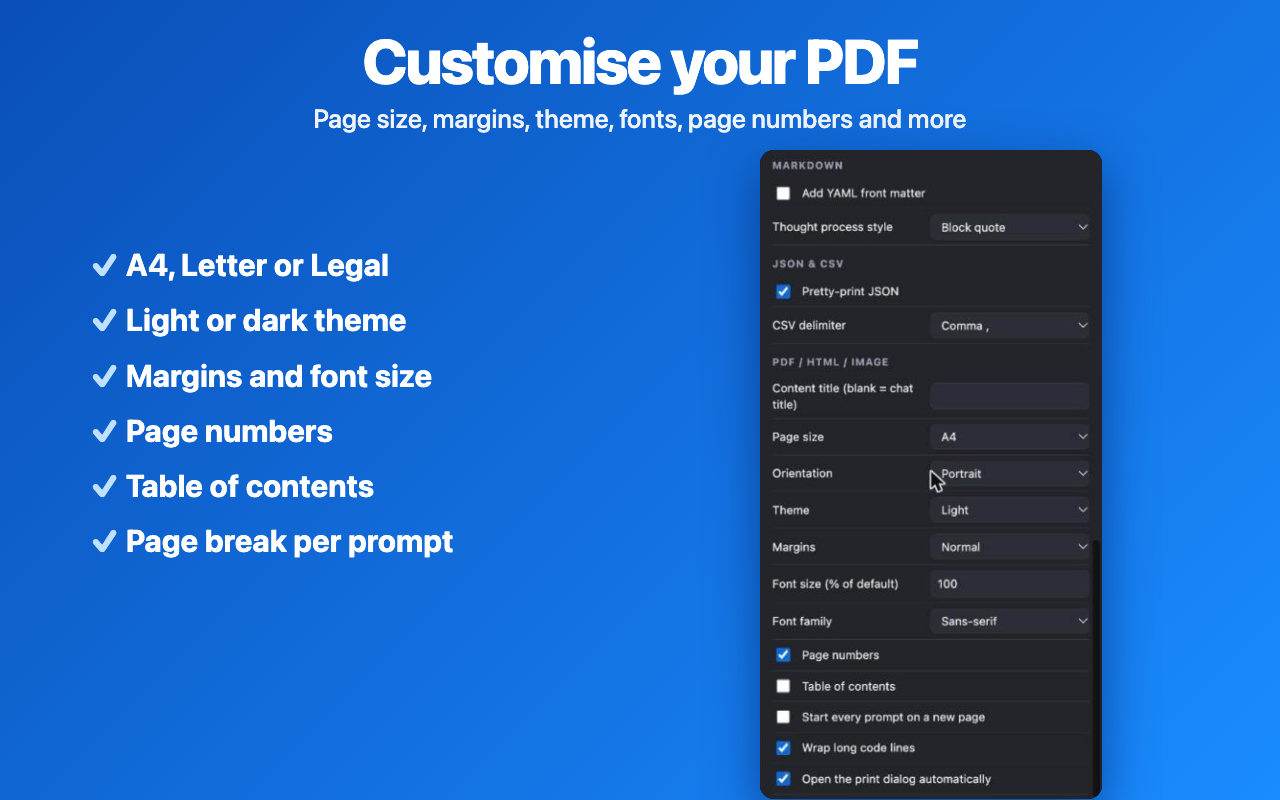
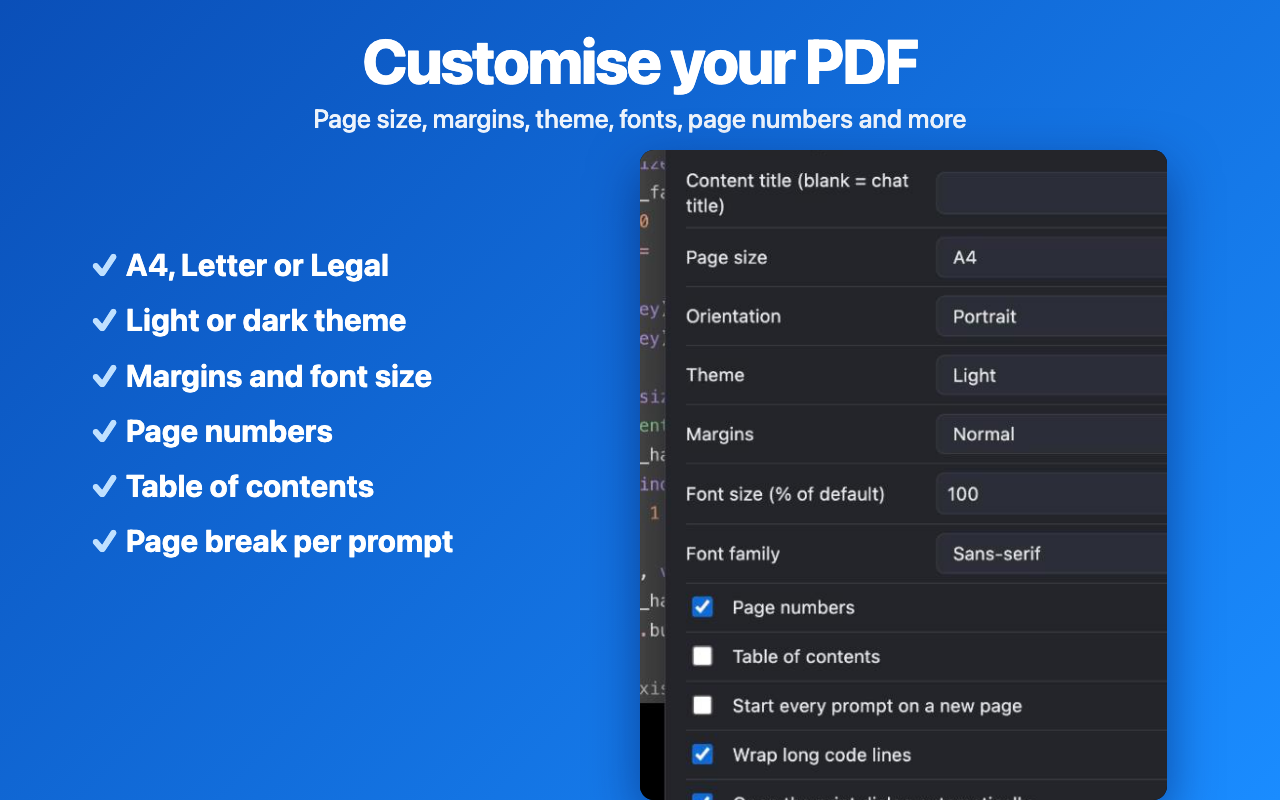
Sharper store screenshots: recapture UI at 1.6x page zoom and downscale instead of upscaling

diff --git a/store-assets/compose.js b/store-assets/compose.js
@@ -24,9 +24,9 @@ const shots = {
     crop('select.jpg', 400, 0, 1168, 746, 56, 150, 0.87)),
   '3-pdf-settings': page('Customise your PDF', 'Page size, margins, theme, fonts, page numbers and more',
     `<ul class=f style="left:90px;top:230px;width:620px"><li><b>✓</b> A4, Letter or Legal</li><li><b>✓</b> Light or dark theme</li><li><b>✓</b> Margins and font size</li><li><b>✓</b> Page numbers</li><li><b>✓</b> Table of contents</li><li><b>✓</b> Page break per prompt</li></ul>`
-    + crop('settings-pdf.jpg', 1212, 66, 356, 676, 760, 150, 0.96)),
+    + crop('settings2.jpg', 971, 60, 555, 684, 640, 150, 0.95)),
   '4-formats': page('8 formats, nothing left behind', 'Code, tables, math, images and sources are kept',
-    crop('menu.jpg', 1384, 170, 164, 450, 800, 165, 1.35)
+    crop('menu2.jpg', 1215, 12, 263, 586, 800, 160, 1.0)
     + `<ul class=f style="left:90px;top:210px;width:620px;font-size:34px"><li><b>PDF</b> · <b>Word</b> · <b>Markdown</b></li><li><b>HTML</b> · <b>Text</b> · <b>PNG</b></li><li><b>JSON</b> · <b>CSV</b></li><li style="font-size:26px;font-weight:600;opacity:.92;margin-top:30px">Or copy as rich text straight into Google Docs, Word or Notion</li></ul>`)
 };
 
@@ -43,12 +43,12 @@ body{background:${SOLID};font-family:-apple-system,BlinkMacSystemFont,"Segoe UI"
 .t{position:absolute;left:186px;top:58px;font-size:56px;line-height:1}
 .list{position:absolute;left:60px;top:180px;font-size:66px;line-height:1.12}
 </style>${body}`;
-const crop2 = (n, x, y, w, h, l, t, s) => `<div class=shot style="left:${l}px;top:${t}px;width:${w * s}px;height:${h * s}px"><img src="${raw(n)}" style="width:${1568 * s}px;left:${-x * s}px;top:${-y * s}px"></div>`;
+const crop2 = (n, x, y, w, h, l, t, s) => `<div class=shot style="left:${l}px;top:${t}px;width:${w * s}px;height:${h * s}px"><img src="${raw(n)}" style="width:${1526 * s}px;left:${-x * s}px;top:${-y * s}px"></div>`;
 shots['hero-1-features'] = solid(`<div class="bul y"><div>- Export to PDF, Word, Markdown, HTML ...</div><div>- Export only the messages you need</div><div>- Customise your PDF and file names</div><div>- Keeps code, tables, math and images</div></div>`
-  + crop2('menu.jpg', 1384, 168, 164, 380, 60, 325, 1.3) + crop2('select.jpg', 1212, 0, 356, 380, 305, 325, 1.3) + crop2('settings-pdf.jpg', 1212, 280, 356, 380, 785, 325, 1.3));
+  + crop2('menu2.jpg', 1215, 12, 263, 560, 70, 320, 0.85) + crop2('select2.jpg', 971, 0, 555, 620, 330, 320, 0.8) + crop2('settings2.jpg', 971, 60, 555, 620, 800, 320, 0.8));
 shots['hero-2-formats'] = solid(`<img class=logo src="${raw('icon128.png')}"><div class="t y">ChatGPT Exporter</div>`
   + `<div class="list y"><div>PDF</div><div>Word</div><div>Markdown</div><div>HTML</div><div>Text</div><div>CSV · JSON</div></div>`
-  + crop2('menu.jpg', 1384, 168, 164, 392, 620, 175, 1.6) + crop2('select.jpg', 1212, 0, 356, 600, 895, 175, 1.07));
+  + crop2('menu2.jpg', 1215, 12, 263, 586, 560, 214, 1.0) + crop2('select2.jpg', 971, 0, 555, 784, 850, 214, 0.78));
 
 const privacy = page('Private by design', 'Your conversations never leave your browser',
   `<div style="position:absolute;left:70px;right:70px;top:200px;display:flex;gap:28px">${[['🔒', 'Runs locally', 'Chats are converted inside your browser. Nothing is sent to our servers.'], ['🚫', 'No tracking', 'No ads, no analytics and no remote code.'], ['⚡', 'Instant', 'Uses your logged-in session, so exports are exact and fast.']].map(c => `<div style="flex:1;background:#fff;color:#1f2330;border-radius:20px;padding:40px 30px;box-shadow:0 12px 36px rgba(0,25,90,.35)"><div style="font-size:54px">${c[0]}</div><div style="font-weight:800;font-size:30px;margin:14px 0 10px">${c[1]}</div><div style="font-size:21px;color:#4b5568;line-height:1.45">${c[2]}</div></div>`).join('')}</div>`);
